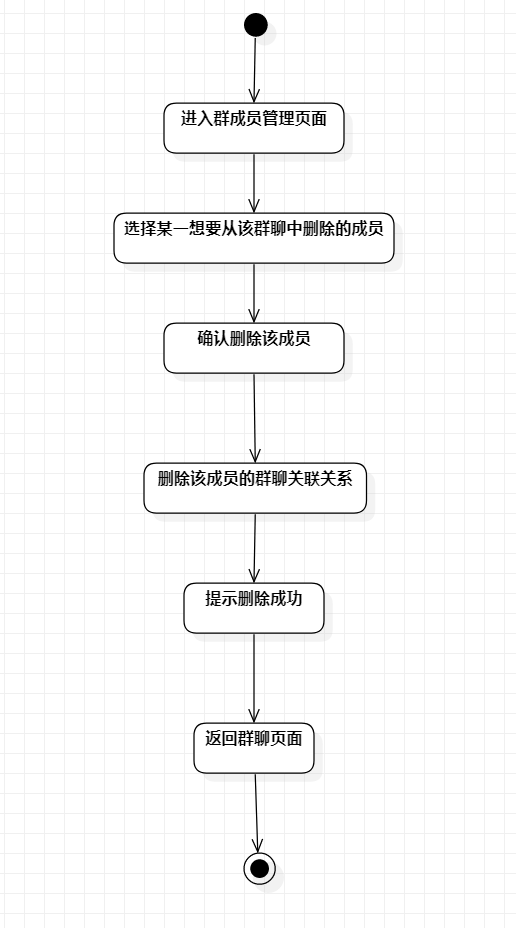
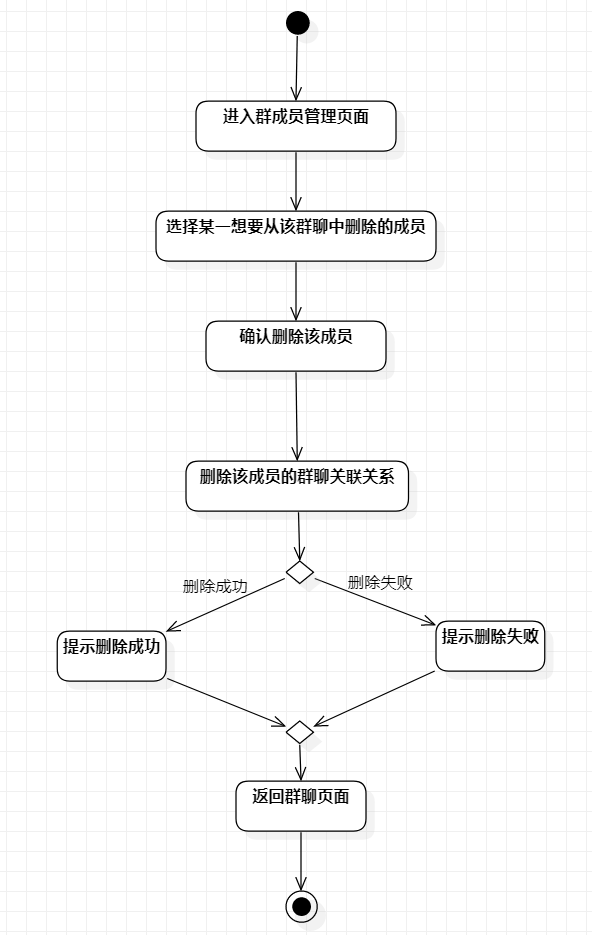
#3

diff --git a/students/1714080902340/实验3：过程建模.md b/students/1714080902340/实验3：过程建模.md
@@ -16,10 +16,8 @@
 
 ## 4. 实验结果
 
-1. 活动图1——![Lab3_删除群聊中某成员.jpg](https://raw.githubusercontent.com/CapWu/uml-modeling-2020/master/students/1714080902340/Lab3_1.jpg)
-
-2. 活动图2——![Lab3_添加非群聊成员.jpg](https://raw.githubusercontent.com/CapWu/uml-modeling-2020/master/students/1714080902340/Lab3_2.jpg)
-
+1. 活动图1——![Lab3_删除群聊中某成员.jpg](https://raw.githubusercontent.com/CapWu/uml-modeling-2020/master/students/1714080902340/Lab3_1.png)
+2. 活动图2——![Lab3_添加非群聊成员.jpg](https://raw.githubusercontent.com/CapWu/uml-modeling-2020/master/students/1714080902340/Lab3_2.png)
 3. 修改后的用例规约
 
 - 表1：删除群聊中某成员用例规约
@@ -35,8 +33,8 @@
 ~| 4. 群主点击确认按钮确认删除该成员； |
 ~| 5. 系统删除该成员的群聊关联关系； |   
 ~| 6. 系统提示删除成功并返回群聊页面； |
-扩展流程  |  |
-|                                               |*用例执行失败*
+扩展流程  | 5.1 系统出错，提示删除失败 |
+| 5.2 系统返回群聊页面 |*用例执行失败*
 
 
 - 表2：添加非群聊成员用例规约
@@ -53,5 +51,5 @@
 ~| 5. 系统创建该成员与该群聊的关联关系，保存关联关系； |  
 ~| 6. 系统弹框给群主或群成员提示添加成功； |
 ~| 7. 群主或群成员点击弹框确认键并返回群聊页面；|
-扩展流程  |                                                     |
-||*用例执行失败*    
+扩展流程  | 5.1 系统出错，提示添加失败 |
+|5.2 返回群聊页面|*用例执行失败*    

diff --git a/students/1714080902340/实验2：用例建模.md b/students/1714080902340/实验2：用例建模.md
@@ -1,5 +1,5 @@
-
 # 实验2：用例建模
+
 ## 1.实验目标
 
 1. 使用Markdown编写报告
@@ -38,7 +38,8 @@
 ~| 4. 群主点击确认按钮确认删除该成员； |
 ~| 5. 系统删除该成员与群聊的关联关系； |   
 ~| 6. 系统提示删除成功并返回群聊页面； |
-扩展流程  |                                               |*用例执行失败* 
+扩展流程  | 5.1 系统出错，提示删除失败 
+|5.2 系统返回群聊页面|*用例执行失败* 
 
 ## 表2：添加非群聊成员用例规约
 
@@ -54,6 +55,6 @@
 ~| 5. 系统创建该成员与该群聊的关联关系，保存关联关系； |  
 ~| 6. 系统弹框给群主或群成员提示添加成功； |
 ~| 7. 群主或群成员点击弹框确认键并返回群聊页面；|
-扩展流程  |                                                     |
-||*用例执行失败*    
+扩展流程  |  5.1 系统出错，提示添加失败                                                 |
+|5.2 返回群聊页面 |*用例执行失败*    
 
